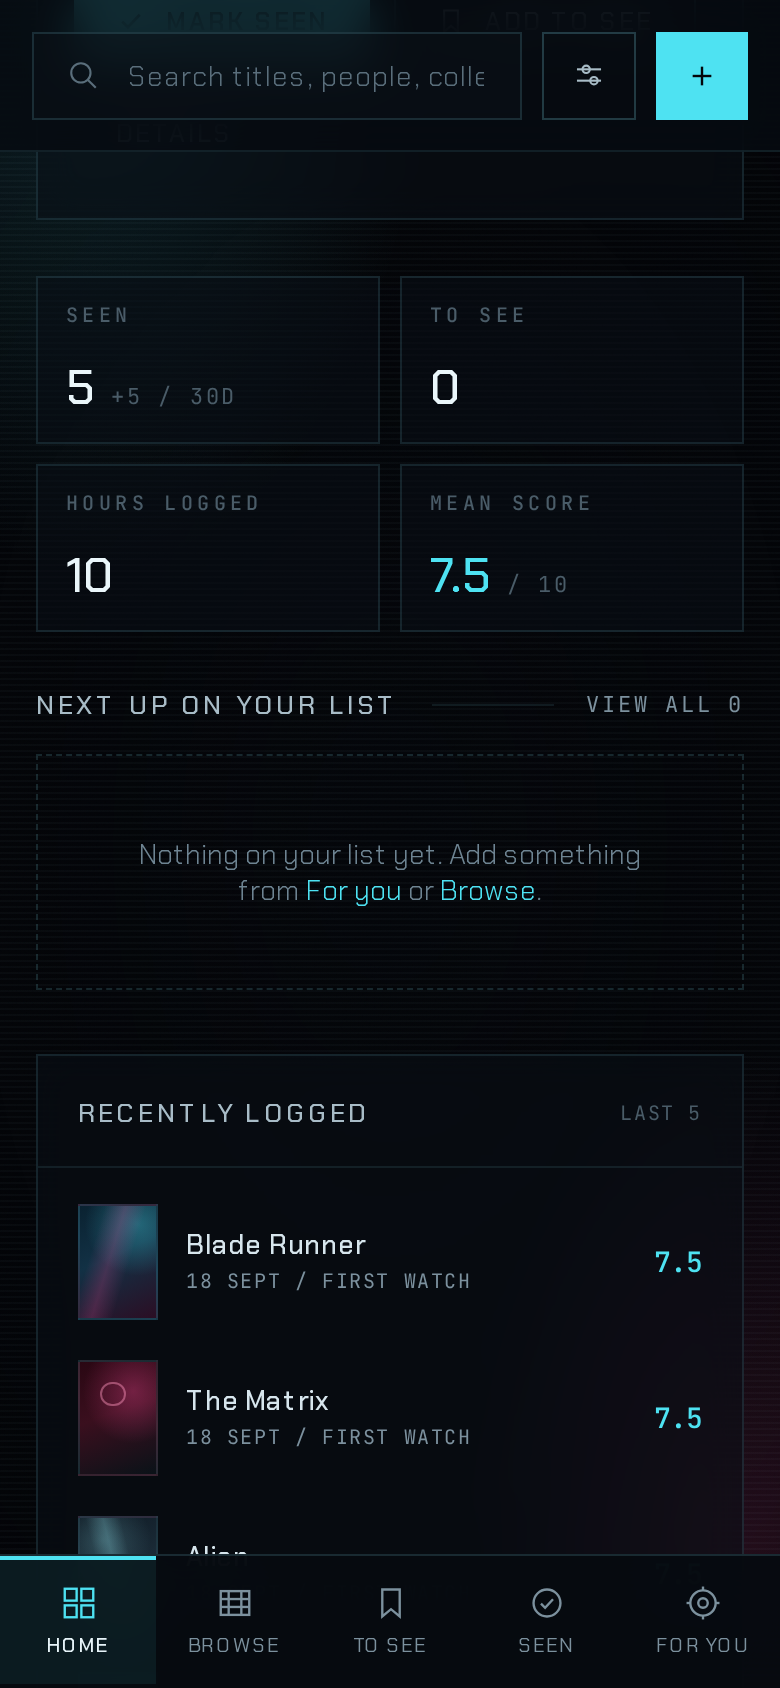
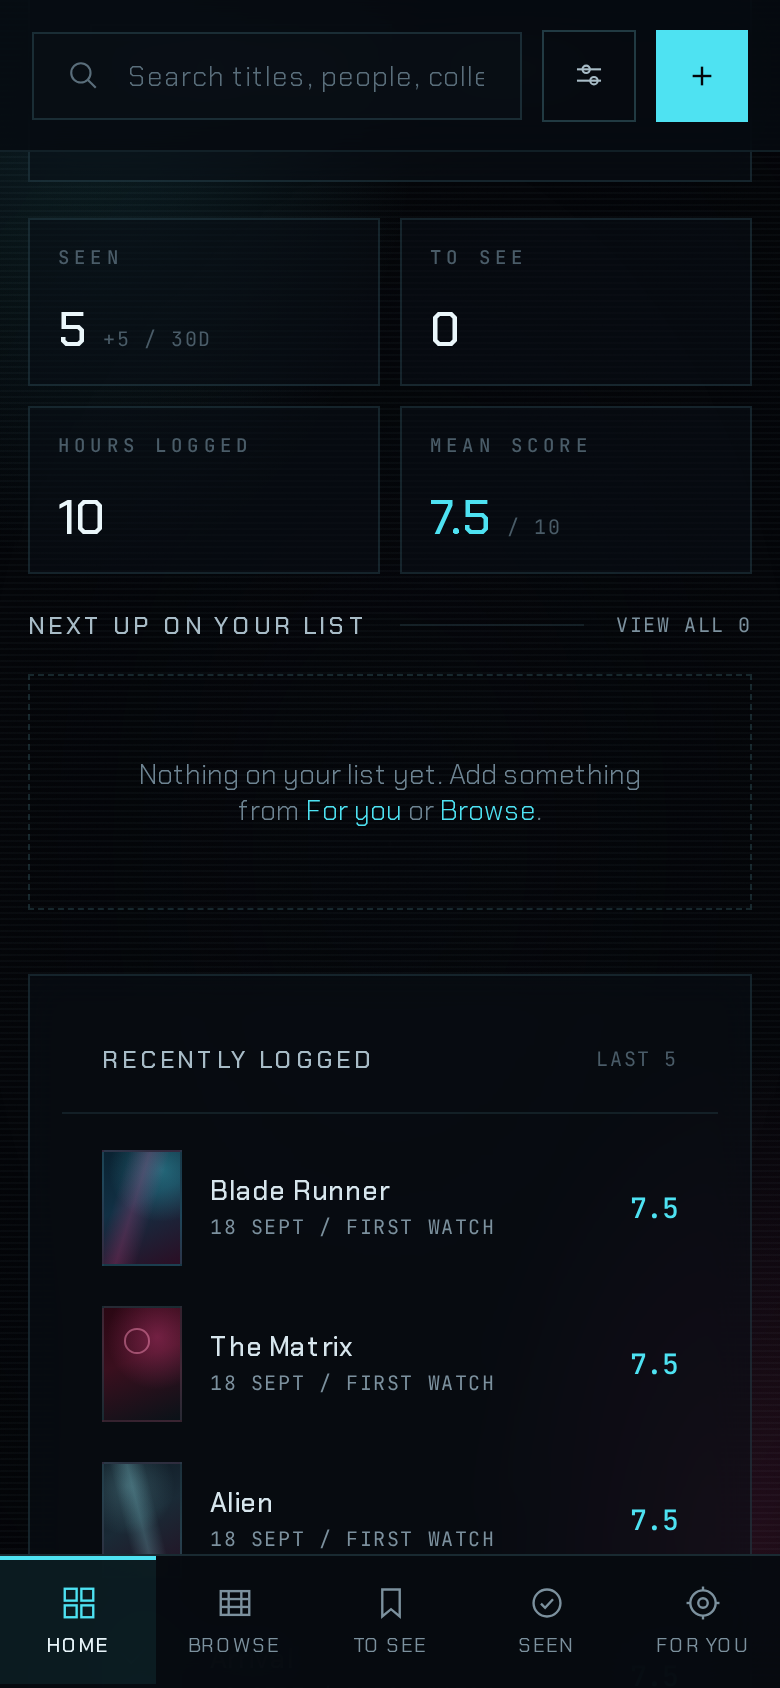
Bring the phone scale down, and let a score be edited from Seen
Two reports: everything is still too big, and changing a score still means
deleting the entry and logging it again.

**Too big** had a root cause, not just values that needed nudging.
global.css opened with `@import './layout.css'`, so every rule in
global.css landed AFTER layout.css — including after its media queries.
Each mobile override for a class global.css also defines was therefore
dead: `.h1` stayed 30px, `.chip`, `.btn`, `.slider` and `.toggle` kept
their desktop hit targets, `.meta` its desktop size. The imports now sit
in main.tsx in explicit order, layout.css last. The two files share no
base-level selector, so nothing else changes hands.

With the overrides live, the phone ramp is real: posters go three across
at 115px rather than two at 170 (the 860px rule had been beating the
480px one purely by sitting later in the file), headings 30px -> 21px,
tonight's pick 44px -> 27px, gutters and section gaps in. Browse is
12760px tall at 393px before this, 5981px after — the same films in less
than half the scrolling. Long poster titles hyphenate instead of being
sliced mid-word ("Annihilatio / n"), and the date line no longer wraps.

**Editing a score** worked only from a film's own page. Seen — the list
of everything you have rated, and the obvious place to go — was
read-only, so the only route to a different number really was delete and
re-log. The rating there is now the control: tap it for the same edit
[…]

diff --git a/src/styles/layout.css b/src/styles/layout.css
@@ -107,7 +107,10 @@
 }
 .topbar .field { flex-grow: 1; max-width: 520px; }
 
-.screen { flex-grow: 1; padding: 30px 40px 40px; display: flex; flex-direction: column; }
+/* The side gutter is a variable because the filter rows bleed to the screen
+   edges by negating it. When the two drifted apart the page gained 4px of
+   horizontal scroll. */
+.screen { --gutter: 40px; flex-grow: 1; padding: 30px var(--gutter) 40px; display: flex; flex-direction: column; }
 .screen-head { display: flex; align-items: flex-end; justify-content: space-between; gap: 24px; }
 .screen-head .meta { margin-top: 8px; }
 
@@ -155,6 +158,12 @@
 
 .log-row { display: flex; align-items: center; gap: 18px; height: 62px; border-bottom: 1px solid rgba(126, 214, 232, 0.07); }
 .log-row:last-child { border-bottom: none; }
+.log-day { width: 30px; flex-shrink: 0; color: var(--ink-7); font-size: 10.5px; }
+.log-art { flex-shrink: 0; display: flex; }
+.log-main { flex-grow: 1; min-width: 0; }
+.log-title { font: 500 15px var(--sans); letter-spacing: 0.03em; color: var(--ink); }
+.log-sub { margin-top: 4px; font-size: 10px; }
+.log-kind { width: 96px; flex-shrink: 0; font-size: 10px; }
 
 .empty-note {
   padding: 40px;
@@ -334,7 +343,7 @@
   .btn-icon-sm,
   .topbar .btn { padding: 0 14px; gap: 0; }
 
-  .screen { padding: 22px 16px 30px; }
+  .screen { --gutter: 16px; padding: 22px var(--gutter) 30px; }
 
   /* The to-see table stops being a table and becomes stacked cards. */
   .list-head { display: none; }
@@ -347,8 +356,37 @@
   .list-row > * { width: auto !important; }
   .list-row > span[class='meta'] { order: 5; }
 
-  .log-row { flex-wrap: wrap; height: auto; gap: 10px 14px; padding: 14px 0; }
-  .log-row > div[style*='width: 230px'] { width: auto !important; flex-grow: 1; }
+  /* Four flexible columns wrapped into a ragged three-line block, with the
+     score landing in a different place on every row. A phone gets a fixed
+     two-line card instead: art, then title over date, with the rating held
+     on the right where it can be tapped. */
+  .log-row {
+    display: grid;
+    grid-template-columns: auto minmax(0, 1fr) auto;
+    align-items: center;
+    column-gap: 12px;
+    row-gap: 2px;
+    height: auto;
+    padding: 11px 0;
+  }
+  .log-art { grid-column: 1; grid-row: 1; }
+  .log-main { grid-column: 2; grid-row: 1; }
+  .log-title { font-size: 14px; }
+  .log-sub { margin-top: 2px; }
+  .score-edit { grid-column: 3; grid-row: 1 / span 2; margin-right: 0; }
+
+  /* The day sits under its poster like a date stamp; the first-watch flag
+     takes the line under the title. Each has its own cell, so nothing
+     depends on one being narrow enough to clear the other. */
+  .log-day {
+    grid-column: 1;
+    grid-row: 2;
+    width: auto;
+    justify-self: center;
+    padding-top: 4px;
+    font-size: 9.5px;
+  }
+  .log-kind { grid-column: 2; grid-row: 2; width: auto; font-size: 9.5px; }
 
   .keyart { height: auto; min-height: 300px; }
   .keyart .inner { padding: 20px 16px 24px; }
@@ -452,7 +490,7 @@
   .main { padding-bottom: 72px; }
 
   /* Give the content room to breathe — this is the "clingy" fix. */
-  .screen { padding: 24px 18px 36px; gap: 26px; }
+  .screen { --gutter: 18px; padding: 24px var(--gutter) 36px; gap: 26px; }
   .panel { padding-top: 2px; }
   .h1 { font-size: 26px; letter-spacing: 0.05em; }
   .h2, .h3 { font-size: 13px; }
@@ -490,14 +528,17 @@
     scrollbar-width: none;
     -webkit-overflow-scrolling: touch;
     /* Bleed to the screen edges so it reads as scrollable. */
-    margin: 0 -18px;
-    padding: 2px 18px;
+    margin: 0 calc(-1 * var(--gutter));
+    padding: 2px var(--gutter);
   }
   .filter-row::-webkit-scrollbar { display: none; }
   .filter-row > .chip { flex: 0 0 auto; }
 
-  /* Three columns at 393px left ~110px per poster, so titles ran to three
-     lines. Two columns give the art room and the titles a fighting chance. */
+}
+
+/* Two across suits a small tablet. Phones get three — see the 480px block,
+   which this rule used to override purely by sitting later in the file. */
+@media (min-width: 481px) and (max-width: 860px) {
   .grid-posters { grid-template-columns: repeat(auto-fill, minmax(150px, 1fr)); gap: 14px; }
 }
 
@@ -552,4 +593,118 @@
 @media (max-width: 860px) {
   /* The chevron label is the least useful thing here at phone width. */
   .starter-go { display: none; }
+}
+
+
+/* ── phone scale ──────────────────────────────────────────────────────
+   Everything above is sized for a small tablet. A 390px phone needs the
+   ramp brought down again, or three things fill the screen: posters went
+   two across at ~170px each, the hero title ran to 44px, and the section
+   headings to 26px. */
+@media (max-width: 480px) {
+  .grid-posters {
+    /* Three across, the density a phone film grid is normally read at. */
+    grid-template-columns: repeat(auto-fill, minmax(100px, 1fr));
+    gap: 10px;
+  }
+  .poster > .cap { padding: 9px 8px; gap: 2px; }
+  .poster > .cap b {
+    font-size: 11.5px;
+    letter-spacing: 0.02em;
+    /* A title with no space in it (Annihilation) is wider than the card.
+       Left alone it was sliced mid-word, since line-clamp only ellipsises
+       where it has a line break to work with; `anywhere` broke it into
+       "Annihilatio / n". Hyphenate instead, and only when it has to. */
+    overflow-wrap: break-word;
+    hyphens: auto;
+  }
+  .poster > .cap span {
+    font-size: 9px;
+    letter-spacing: 0.04em;
+    /* "1968 / 2H29" wrapped to two lines and pushed the title off the art. */
+    white-space: nowrap;
+  }
+
+  /* The chips were sized for thumbs on a tablet; at this width they cost a
+     third of the row each. */
+  .chip { height: 34px; padding: 0 13px; font-size: 11px; }
+  .filter-rows { gap: 8px; }
+  .filter-row { gap: 8px; }
+
+  .screen { --gutter: 14px; padding: 16px var(--gutter) 28px; }
+  /* The gaps between sections are set inline per screen, so they need
+     overriding here rather than at the source. */
+  .screen { gap: 18px !important; }
+  .screen-head { gap: 10px; }
+
+  .h1 { font-size: 21px; letter-spacing: 0.04em; }
+  .h2, .h3 { font-size: 12px; }
+  .meta { font-size: 10px; }
+  .lbl { font-size: 9.5px; }
+
+  .panel { padding: 16px; }
+  .hero-body { padding: 16px 14px; }
+  .keyart { min-height: 220px; }
+
+  .starter-note { padding: 12px 13px; gap: 10px; }
+  .starter-note b + span { font-size: 12px; }
+}
+
+/* ── tonight's pick ───────────────────────────────────────────────────
+   Was an inline 44px, which no media query could reach. */
+.hero-title {
+  margin-top: 16px;
+  font: 600 44px var(--sans);
+  letter-spacing: 0.03em;
+  line-height: 1.02;
+  color: var(--ink-hi);
+  text-wrap: pretty;
+}
+
+@media (max-width: 860px) { .hero-title { font-size: 34px; } }
+@media (max-width: 480px) { .hero-title { margin-top: 12px; font-size: 27px; } }
+
+/* ── the score on Seen, as an edit control ────────────────────────────
+   Mirrors .log-entry on the film page: tap the rating to change it. */
+.score-edit {
+  display: flex;
+  align-items: center;
+  gap: 10px;
+  min-height: 44px;
+  padding: 0 8px;
+  margin-right: -8px;
+  border: 1px solid transparent;
+  background: none;
+  cursor: pointer;
+}
+.score-edit:hover { border-color: var(--edge-2); background: rgba(78, 226, 242, 0.04); }
+.score-meter { width: 92px; }
+
+@media (max-width: 480px) {
+  /* A full-width meter pushed the director's name onto a second line; the
+     number beside it carries the reading anyway. */
+  .score-meter { width: 44px; }
+  .score-edit { gap: 8px; padding: 0 4px; }
+}
+
+/* ── very narrow phones ───────────────────────────────────────────────
+   Five tabs at their natural width need 370px, and because the bar spans
+   the document that became the floor for every route — a 360px Android
+   scrolled sideways everywhere, not just on one screen. Let the labels
+   shrink rather than let the bar set the page width. */
+@media (max-width: 389px) {
+  /* An <input> carries a default intrinsic width of about 170px that
+     flex-grow cannot shrink past, so the top bar — search field plus two
+     buttons — was the thing holding the document at 370px. */
+  .topbar .field, .topbar .field input { min-width: 0; }
+
+  .rail-nav { min-width: 0; }
+  .nav-item { padding: 0 2px; gap: 4px; font-size: 8.5px; letter-spacing: 0.02em; }
+  .nav-item > span {
+    min-width: 0;
+    max-width: 100%;
+    overflow: hidden;
+    text-overflow: ellipsis;
+    white-space: nowrap;
+  }
 }

diff --git a/src/screens/Seen.tsx b/src/screens/Seen.tsx
@@ -1,6 +1,8 @@
 import { useMemo, useState } from 'react';
 import { Link } from 'react-router-dom';
 import { useCatalogue } from '../lib/catalogue';
+import { useLogModal } from '../components/AppShell';
+import { Icon } from '../components/Icon';
 import { Thumb } from '../components/Poster';
 import { Chip, Meter, SectionHead } from '../components/ui';
 import { computeStats, genreCounts, groupByMonth, loggedYears, perMonth } from '../lib/stats';
@@ -9,6 +11,7 @@ import { useStore } from '../lib/store';
 export function Seen() {
   const { getFilm } = useCatalogue();
   const { state } = useStore();
+  const { editLog } = useLogModal();
   const stats = computeStats(state, getFilm);
   const years = loggedYears(state.log);
   const [year, setYear] = useState<number | 'all'>(years[0] ?? 'all');
@@ -79,26 +82,35 @@ export function Seen() {
                 if (!f) return null;
                 return (
                   <div key={`${e.filmId}-${e.watchedOn}-${i}`} className="log-row">
-                    <span className="meta" style={{ width: 30, color: 'var(--ink-7)', fontSize: 10.5 }}>
-                      {e.watchedOn.slice(8, 10)}
+                    <span className="log-day meta">{e.watchedOn.slice(8, 10)}</span>
+                    <span className="log-art">
+                      <Thumb film={f} w={34} h={48} />
                     </span>
-                    <Thumb film={f} w={34} h={48} />
-                    <div style={{ width: 230 }}>
-                      <Link to={`/film/${f.id}`} style={{ font: '500 15px var(--sans)', letterSpacing: '0.03em', color: 'var(--ink)' }}>{f.title}</Link>
-                      <div className="meta" style={{ marginTop: 4, fontSize: 10 }}>{f.year} / {f.director.toUpperCase()}</div>
+                    <div className="log-main">
+                      <Link to={`/film/${f.id}`} className="log-title">{f.title}</Link>
+                      <div className="meta log-sub">{f.year} / {f.director.toUpperCase()}</div>
                     </div>
-                    <span className="meta" style={{ width: 96, fontSize: 10, color: e.rewatch ? 'var(--amber)' : 'var(--ink-8)' }}>
+                    <span className="log-kind meta" style={{ color: e.rewatch ? 'var(--amber)' : 'var(--ink-8)' }}>
                       {e.rewatch ? 'REWATCH' : 'FIRST WATCH'}
                     </span>
-                    <span style={{ flexGrow: 1 }} />
-                    <div style={{ display: 'flex', alignItems: 'center', gap: 10 }}>
-                      <div style={{ width: 92 }}>
+                    {/* The score is the thing people come here to change, so it
+                        is the control — this screen used to be read-only, which
+                        left deleting and re-logging as the only way to fix a
+                        rating. */}
+                    <button
+                      type="button"
+                      className="score-edit"
+                      onClick={() => editLog(e)}
+                      aria-label={`Edit the score for ${f.title}`}
+                    >
+                      <span className="score-meter">
                         <Meter pct={e.score * 10} />
-                      </div>
+                      </span>
                       <span style={{ width: 30, textAlign: 'right', font: '500 14px var(--mono)', color: 'var(--ink)' }}>
                         {e.score.toFixed(1)}
                       </span>
-                    </div>
+                      <Icon name="pencil" size={13} width={1.6} colour="var(--ink-6)" />
+                    </button>
                   </div>
                 );
               })}

diff --git a/src/main.tsx b/src/main.tsx
@@ -4,7 +4,14 @@ import { HashRouter } from 'react-router-dom';
 import { App } from './App';
 import { CatalogueProvider } from './lib/catalogue';
 import { StoreProvider } from './lib/store';
+// Order matters and is load-bearing. global.css used to @import layout.css
+// at the top, which put every layout.css media query BEHIND global.css's
+// unconditional rules — so `.h1`, `.chip`, `.btn`, `.meta` and the rest kept
+// their desktop sizes on a phone however the mobile block was written.
+// Listing them here puts layout.css last, where the responsive rules belong.
+import './styles/tokens.css';
 import './styles/global.css';
+import './styles/layout.css';
 
 createRoot(document.getElementById('root')!).render(
   <StrictMode>

diff --git a/src/screens/Dashboard.tsx b/src/screens/Dashboard.tsx
@@ -59,7 +59,7 @@ export function Dashboard() {
               <span className="meta" style={{ color: 'var(--cyan)', letterSpacing: '0.14em' }}>{top.match}% MATCH</span>
             </div>
 
-            <Link to={`/film/${top.film.id}`} style={{ marginTop: 16, font: '600 44px var(--sans)', letterSpacing: '0.03em', lineHeight: 1.02, color: 'var(--ink-hi)', textWrap: 'pretty' }}>
+            <Link to={`/film/${top.film.id}`} className="hero-title">
               {top.film.title.toUpperCase()}
             </Link>
             <div className="meta" style={{ marginTop: 10 }}>

diff --git a/src/styles/global.css b/src/styles/global.css
@@ -1,5 +1,4 @@
-@import './tokens.css';
-@import './layout.css';
+/* Imported from main.tsx in explicit order — see the note there. */
 
 * { box-sizing: border-box; }
 
